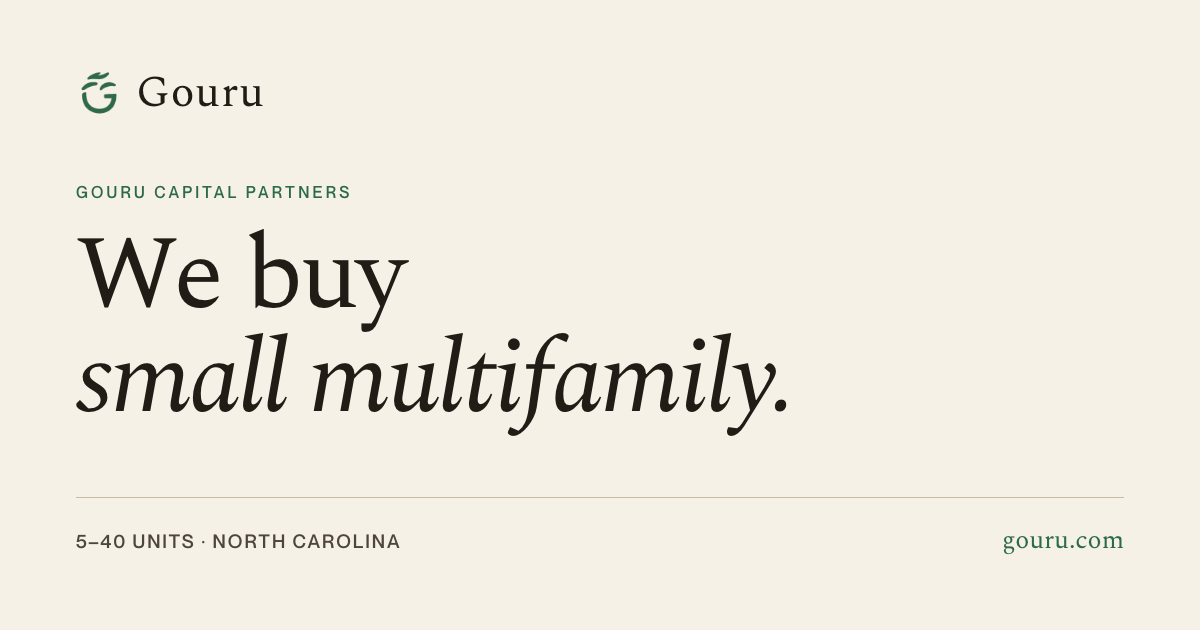
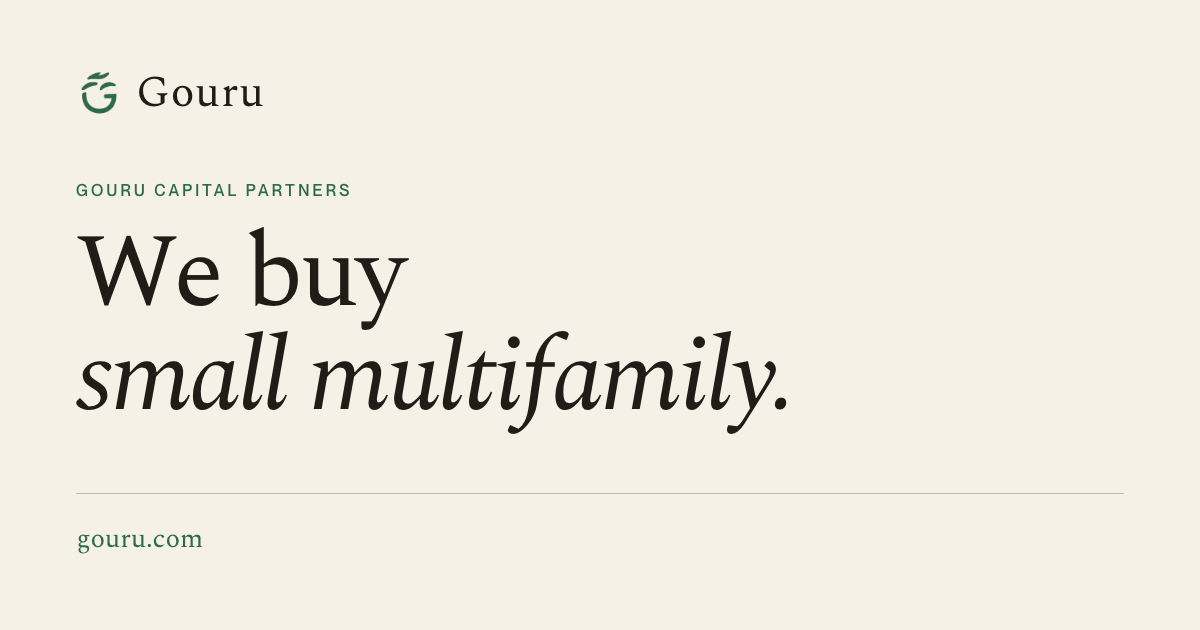
Fix titles and descriptions for search; simplify the social card
The social card carried "5-40 units · North Carolina" along its footer
rule. Both facts are true today and neither will stay true, so the card
now says only what does not change: we buy small multifamily. The unit
range still appears in the meta description, which link previews show
beneath the image, so nothing is actually lost.

The search audit turned up more than the image. The home page — the most
valuable title on the site — was "Home — Gouru", which tells a search
engine nothing about what we do. It is now "Gouru Capital Partners — We
buy small multifamily". Every other title suffixed the short wordmark
rather than the brand, so results read "Sell to Us — Gouru"; the suffix
is now the full name, and og:site_name with it.

Two page titles were named after their nav labels rather than their
subject and carried no searchable term: "Sell to Us" and "Invest with
Us" become "Sell Your Multifamily Property" and "Invest in Small
Multifamily". The nav labels stay short.

The About description ran to 183 characters and would have been truncated
mid-sentence. Privacy and Terms led with the registered entity, so a
search result for either read as a different company; both now lead with
the brand, while the page bodies keep the legal name, which is where it
matters. Every title is now under 60 characters and every description
under 158.

ogVersion goes to 4.

diff --git a/src/consts.ts b/src/consts.ts
@@ -65,7 +65,7 @@ export const SITE = {
    * and hold it for a long time. Whenever public/og-image.png is redrawn,
    * bump this number or those platforms keep serving the old picture.
    */
-  ogVersion: "3",
+  ogVersion: "4",
 
   /** Date the legal pages were last reviewed. */
   legalUpdated: "September 21, 2026",
